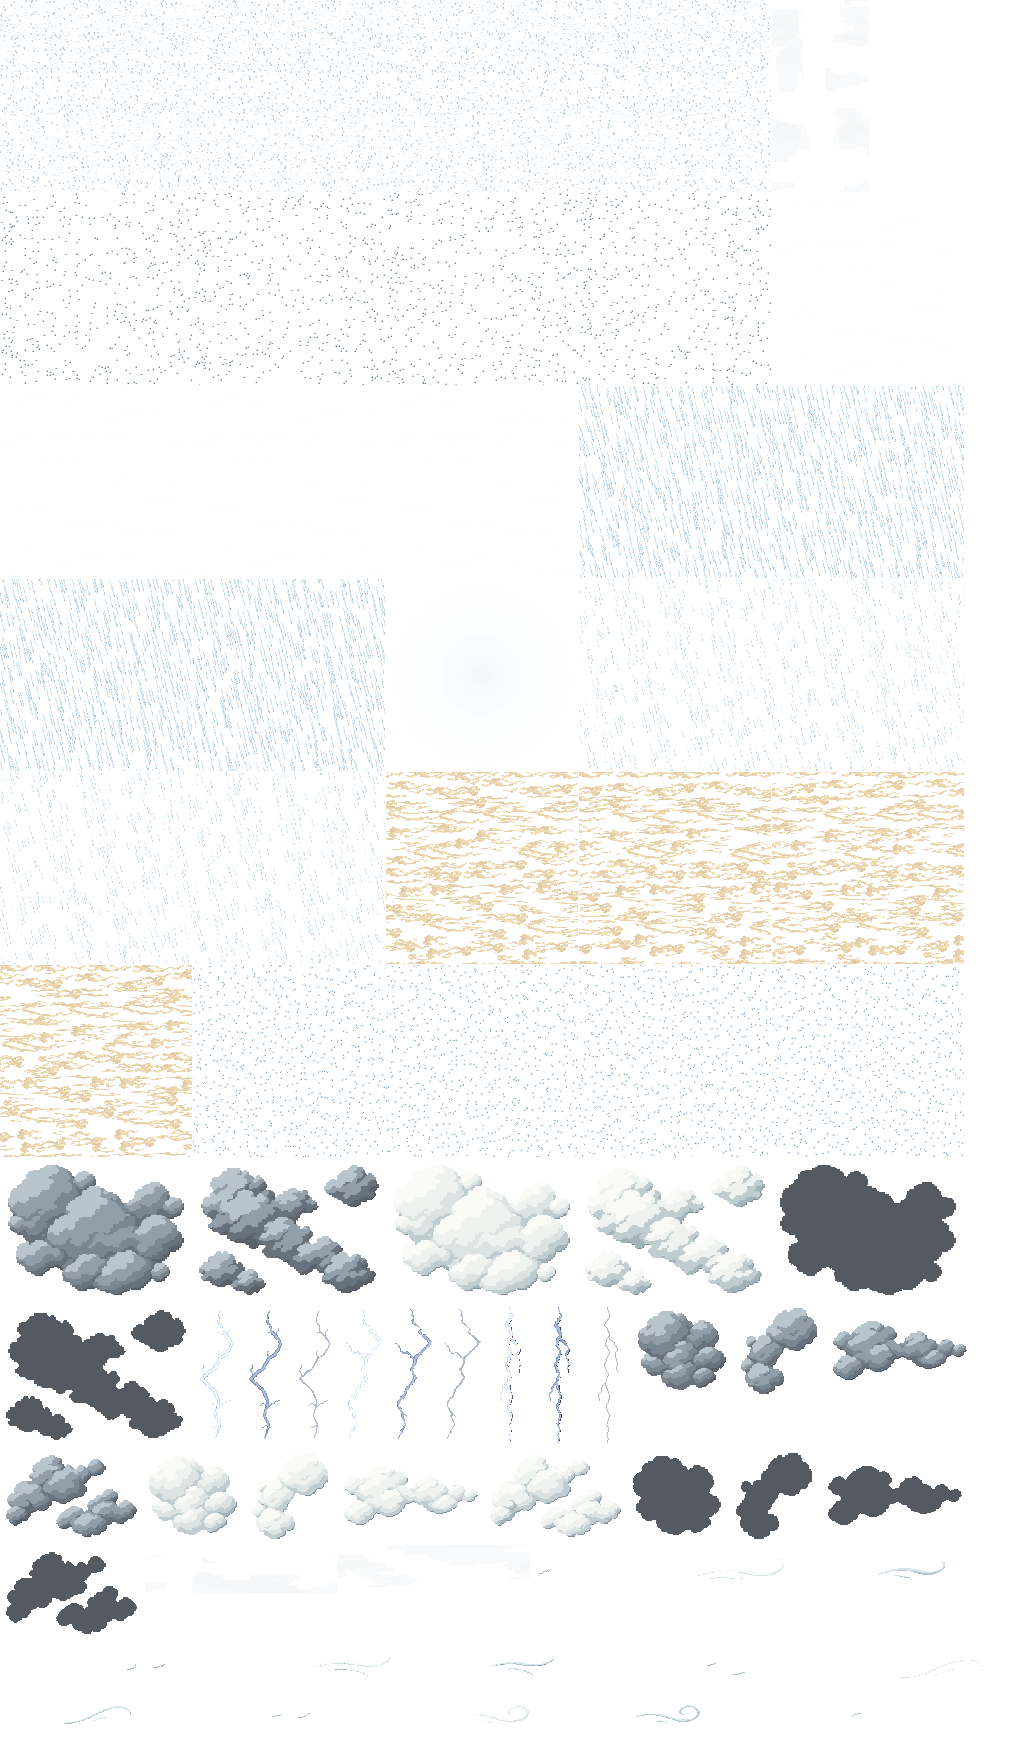
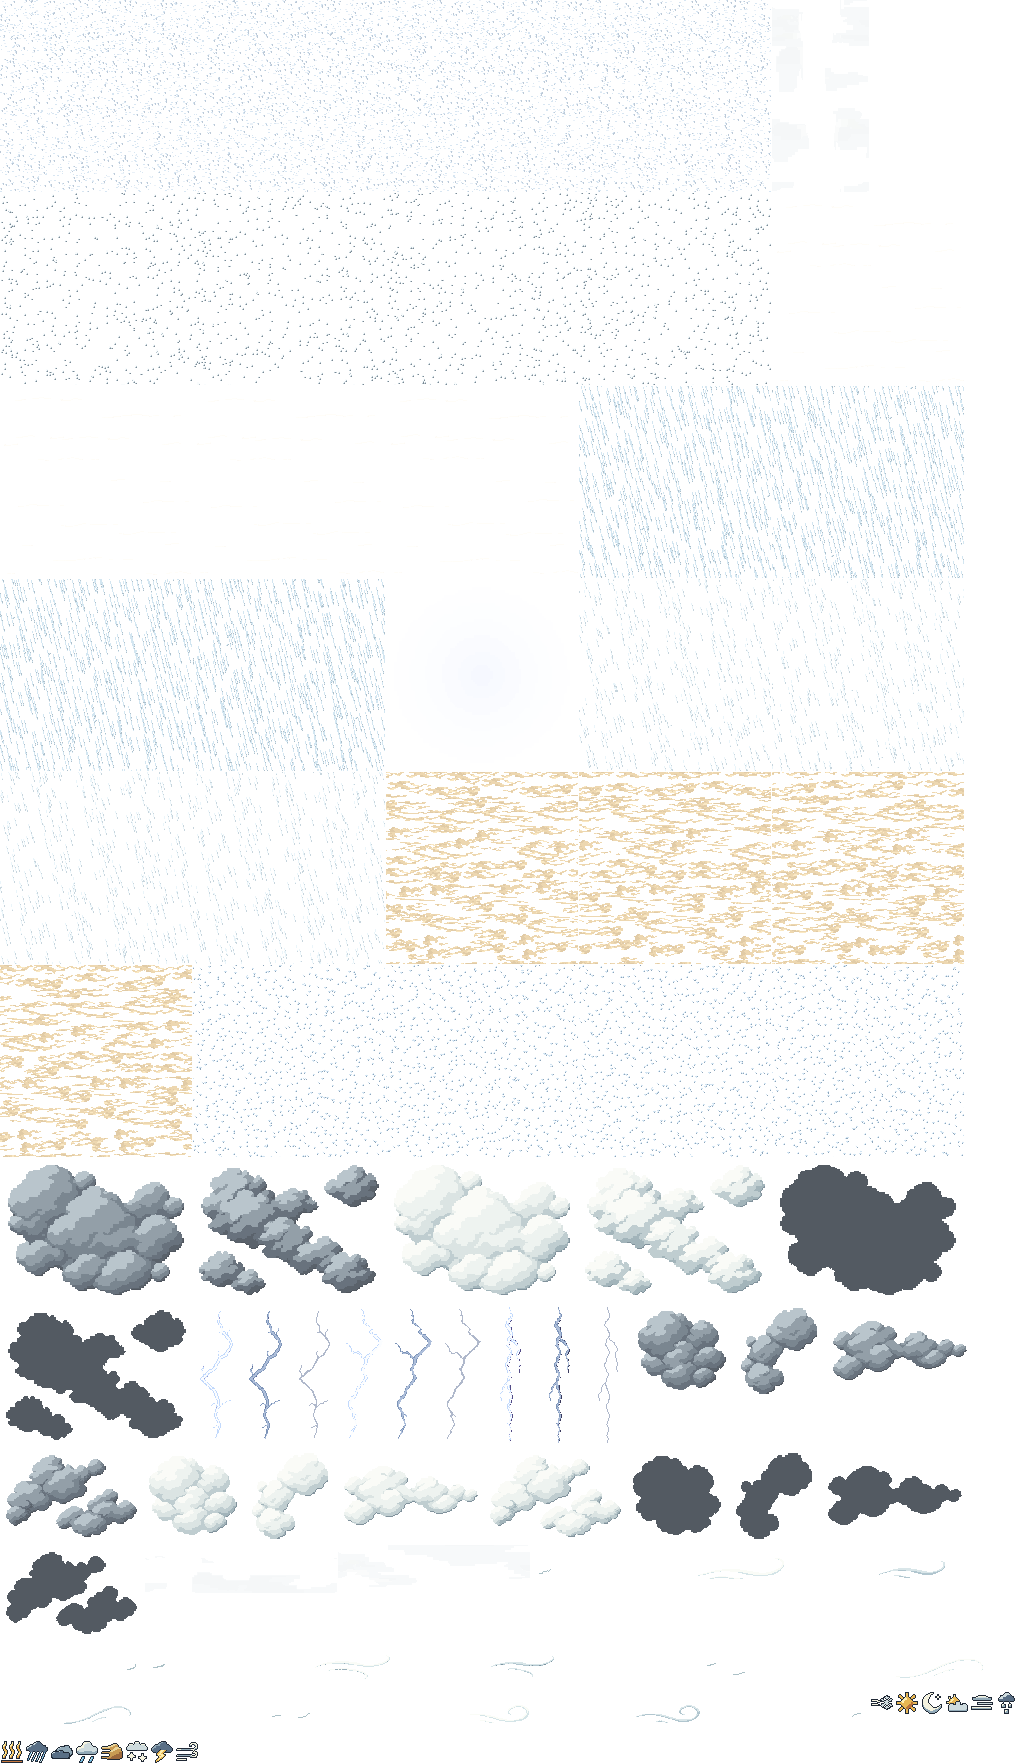
Show the weather where the party stands in the overworld's corner
The round 16 part E icons go into the weather sheet, and the map shows the
party's weather as a badge above Places, with the sun or the moon for a
clear sky by the hour.

diff --git a/packages/client/src/components/game/WorldOverworld.tsx b/packages/client/src/components/game/WorldOverworld.tsx
@@ -62,6 +62,7 @@ import {
   loadOverworldWeatherArt,
   overworldWeatherMoves,
   type OverworldWeatherArt,
+  overworldWeatherIcon,
 } from "./overworld-weather";
 import { useDungeonEnter, useOverworld, useOverworldWalk } from "../../hooks/use-game";
 import {
@@ -1785,6 +1786,30 @@ export function WorldOverworld({
   useEffect(() => {
     if (!walkingRef.current) draw({ x: cameraX, y: cameraY });
   }, [cameraX, cameraY, draw, here]);
+  // The weather where the party stands, in the corner: the sheet's 24 px icon drawn at twice its size.
+  const weatherIcon =
+    weatherArt && partyWeather ? weatherArt.frames[overworldWeatherIcon(partyWeather, time?.hour ?? 12)] : null;
+  const weatherBadge = weatherArt && partyWeather && weatherIcon && (
+    <div
+      className="pointer-events-none flex items-center gap-1.5 rounded-lg border border-white/15 bg-black/65 py-0.5 pl-1 pr-2.5 text-xs font-semibold text-white/85 shadow-lg backdrop-blur-md"
+      data-component="WorldOverworld.Weather"
+      role="status"
+    >
+      <span
+        aria-hidden
+        className="block shrink-0"
+        style={{
+          width: weatherIcon[2] * 2,
+          height: weatherIcon[3] * 2,
+          backgroundImage: `url(${weatherArt.image.src})`,
+          backgroundPosition: `${-weatherIcon[0] * 2}px ${-weatherIcon[1] * 2}px`,
+          backgroundSize: `${weatherArt.image.naturalWidth * 2}px ${weatherArt.image.naturalHeight * 2}px`,
+          imageRendering: "pixelated",
+        }}
+      />
+      {t(`game.combat.weather.type.${partyWeather}`)}
+    </div>
+  );
   // The weather moves while the map stands still: frames for it about ten times a second (a walk draws its own).
   const restingRef = useRef({ x: cameraX, y: cameraY });
   restingRef.current = { x: cameraX, y: cameraY };
@@ -2143,6 +2168,7 @@ export function WorldOverworld({
 
         {/* The places, nearest first: the same choice as the map, by keyboard or for a place off screen. */}
         <div className="pointer-events-auto absolute right-3 top-14 z-10 flex flex-col items-end gap-1.5">
+          {weatherBadge}
           <button
             type="button"
             onClick={() => setPlacesOpen((open) => !open)}

diff --git a/packages/client/src/components/game/overworld-weather.ts b/packages/client/src/components/game/overworld-weather.ts
@@ -41,6 +41,12 @@ export function loadOverworldWeatherArt(): Promise<OverworldWeatherArt | null> {
   return loading;
 }
 
+/** The icon of the "weather here" badge (round 16 part E): a clear sky shows the sun by day and the moon by night. */
+export function overworldWeatherIcon(weather: WeatherType, hour: number): string {
+  if (weather === "clear") return hour >= 6 && hour < 20 ? "icon-clear-day" : "icon-clear-night";
+  return `icon-${weather}`;
+}
+
 /** A small, steady hash of whole numbers: the same cell or block always draws the same way. */
 function hash(a: number, b: number, c = 0): number {
   let h = Math.imul(a | 0, 374761393) ^ Math.imul(b | 0, 668265263) ^ Math.imul(c | 0, 1274126177);

diff --git a/scripts/art/pack-weather-art.py b/scripts/art/pack-weather-art.py
@@ -8,7 +8,8 @@
 #
 # Writes packages/client/public/images/overworld-weather/weather.png and weather.json
 # ({"version", "cell": 48, "frames": {name: [x, y, w, h]}}). The fog tile (fog-f0..f3) is left out: it failed
-# its critic, and the overworld draws fog from the clouds and the fog edges instead.
+# its critic, and the overworld draws fog from the clouds and the fog edges instead. The 24 px icon-* frames
+# (part E) are the map's "weather here" badge.
 # ──────────────────────────────────────────────
 import json
 import os
@@ -29,7 +30,7 @@ def main() -> None:
     names = sorted(
         name[:-4]
         for name in os.listdir(source)
-        if name.endswith(".png") and not name.startswith("icon-") and name[:-4] not in LEFT_OUT
+        if name.endswith(".png") and name[:-4] not in LEFT_OUT
     )
     images = {name: Image.open(os.path.join(source, f"{name}.png")).convert("RGBA") for name in names}
     # Tallest first on shelves, a pixel apart so no frame bleeds into the next when drawn scaled.
